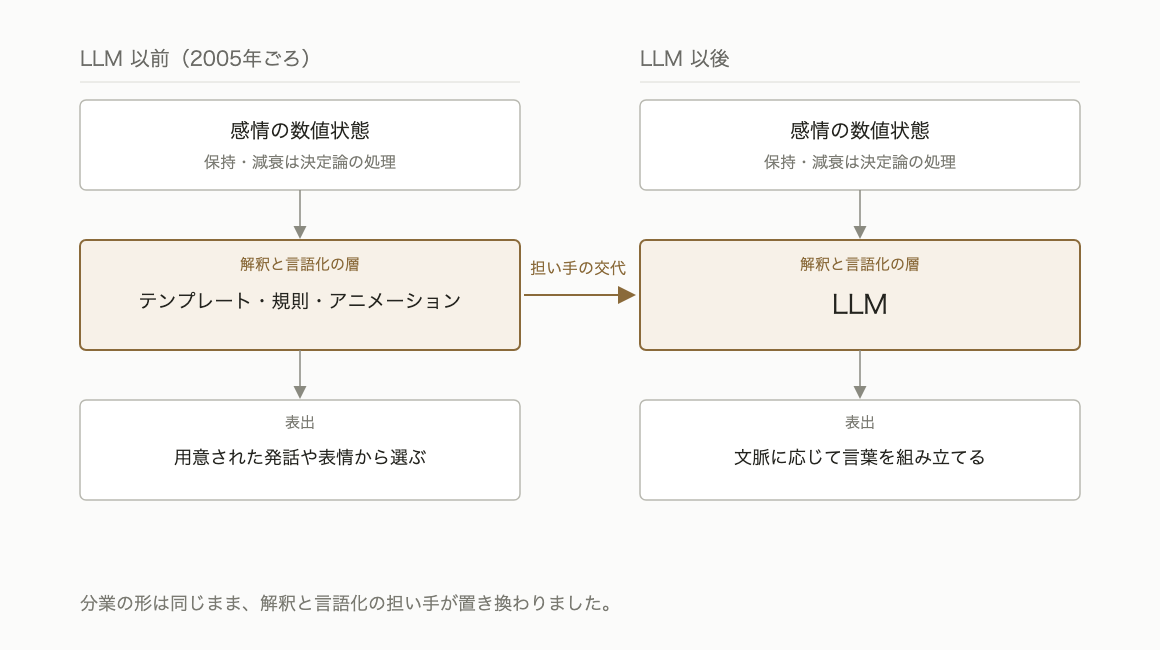
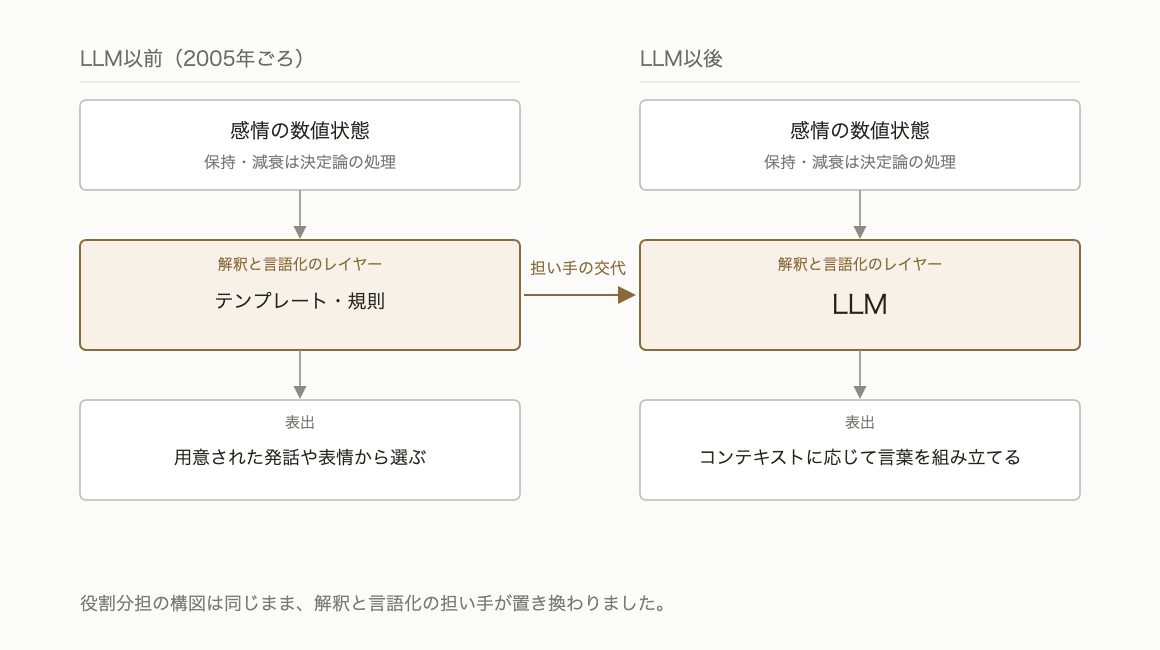
fix: ch3節6のレビューに追随し図3と後続章の参照を役割分担の語彙に揃える

diff --git a/books/emotion-models-for-llm-agents/ch06-occ.md b/books/emotion-models-for-llm-agents/ch06-occ.md
@@ -101,9 +101,9 @@ $ affectus appraise '{"resolve":[{"id":"p1","outcome":"disconfirmed"}]}'
 
 この記録は、セッションを跨いで働きます。実装の指示書（examples/system-prompt-snippet-occ.md）は、台帳を毎ターンLLMに見せたうえで、申告したときの記憶が残っていなくても台帳を信じて決着を申告するよう求めています。会話の文脈が失われた後続のセッションでも、自分が何に希望を掛けていたかを外部状態から思い出せます。「なぜ」が会話ログの外で生き残るのは、この本の設計で初めてのことです。
 
-では、境界はどうなったのでしょうか。第3章で「決定論の側が名前を付け始めたら、境界が動いた合図です」と書きました。OCCのエンジンは、申告のどこにも感情の名前がないのに、怒りや希望という名前つきの軸を自分で選んで値を書き込みます。合図に照らせば、境界は確かに動きました。
+では、役割分担はどうなったのでしょうか。第3章では、感情に名前を付けるのは解釈の仕事として、LLMの側に置きました。ところがOCCのエンジンは、申告のどこにも感情の名前がないのに、怒りや希望という名前つきの軸を自分で選んで値を書き込みます。名付けの仕事の一部が、感情エンジンの側へ動いたことになります。
 
-ただし、動き方が第3章の退けたものと逆です。あちらは、数値を閾値で区切って「強い怒り」のようなラベルを後づけする、解釈を決定論に混入させる動きでした。ここで起きているのは、解釈を評価という一段手前に置き、評価から先を理論の規則に引き受けさせる動きです。第4章は理論の関係を演算に入れないことを選び、第5章は命名を丸ごとLLMに渡しました。この章はその流れを逆へ動かしましたが、LLMの解釈がなくなったわけではありません。出来事がどれほど望ましくないか、誰の行為が非難に値するかを見積もる仕事は、依然としてLLMのものです。境界の線は消えたのではなく、一段手前に引き直されました。
+ただし、これは数値を閾値で区切って「強い怒り」のようなラベルを後づけするような、コンテキストを無視した決めつけとは違います。ここで起きているのは、解釈を評価という一段手前に置き、評価から先を理論の規則に引き受けさせる動きです。第4章は理論の関係を演算に入れないことを選び、第5章は命名を丸ごとLLMに渡しました。この章はその流れを逆へ動かしましたが、LLMの解釈がなくなったわけではありません。出来事がどれほど望ましくないか、誰の行為が非難に値するかを見積もる仕事は、依然としてLLMのものです。境界の線は消えたのではなく、一段手前に引き直されました。
 
 第3章で触れた、LLMの評価は人間とずれ文脈で不安定になりうるという懸念も、そのまま一段手前に移っています。ただ、評価導出型では申告された評価が構造化された形で必ず状態の手前を通るので、その質をあとから検分する足場はできています。
 

diff --git a/books/emotion-models-for-llm-agents/ch07-barrett.md b/books/emotion-models-for-llm-agents/ch07-barrett.md
@@ -68,7 +68,7 @@ culture_mapは、感情の語彙マップを設定として持つ仕組みです
 
 第6章の台帳との違いも、ここにあります。台帳は決着すれば消える、進行中の見込みの短期の記録でした。概念ストアは消えません。蓄積し、想起で強まり、セッションを跨いで生き続けます。実装の指示書（examples/system-prompt-snippet-barrett.md）は、ストアが会話を越えて持続し、将来の想起を形づくると明記しています。会話の文脈が失われても、過去の自分が何をどう名づけたかは外部状態に残ります。外部状態が初めて、時間とともに育っていくのです。
 
-境界の線は、どこまで来たのでしょうか。第3章の分業から出発して、第4章は理論の関係を演算に入れないことを選び、第5章は命名を丸ごとLLMに渡し、第6章は評価から感情への導出を決定論に固定しました。この章で決定論に残っているのは、保持と減衰と類似検索だけです。評価も、構成も、命名も、すべてLLMの側にあります。感情カテゴリーの一覧が先に存在しない以上、評価から感情への導出を規則表に書くことはできません。カテゴリーがその場で構成されるという理論を支えるために、決定論は記憶の管理者に徹しました。エンジンは名前を付けません。LLMが付けた名前を、保存して、返すだけです。第3章の「決定論の側が名前を付け始めたら、境界が動いた合図です」に照らすなら、この章の境界はいちばん素直な位置にあります。
+役割分担の線は、どこまで来たのでしょうか。第3章の役割分担から出発して、第4章は理論の関係を演算に入れないことを選び、第5章は命名を丸ごとLLMに渡し、第6章は評価から感情への導出を決定論に固定しました。この章で決定論に残っているのは、保持と減衰と類似検索だけです。評価も、構成も、命名も、すべてLLMの側にあります。感情カテゴリーの一覧が先に存在しない以上、評価から感情への導出を規則表に書くことはできません。カテゴリーがその場で構成されるという理論を支えるために、決定論は記憶の管理者に徹しました。エンジンは名前を付けません。LLMが付けた名前を、保存して、返すだけです。名付けを解釈の仕事としてLLMの側に置いた第3章の役割分担に照らすなら、この章の分担はいちばん素直な位置にあります。
 
 ## 思い出は構成を変えるか <!-- 未レビュー -->
 
